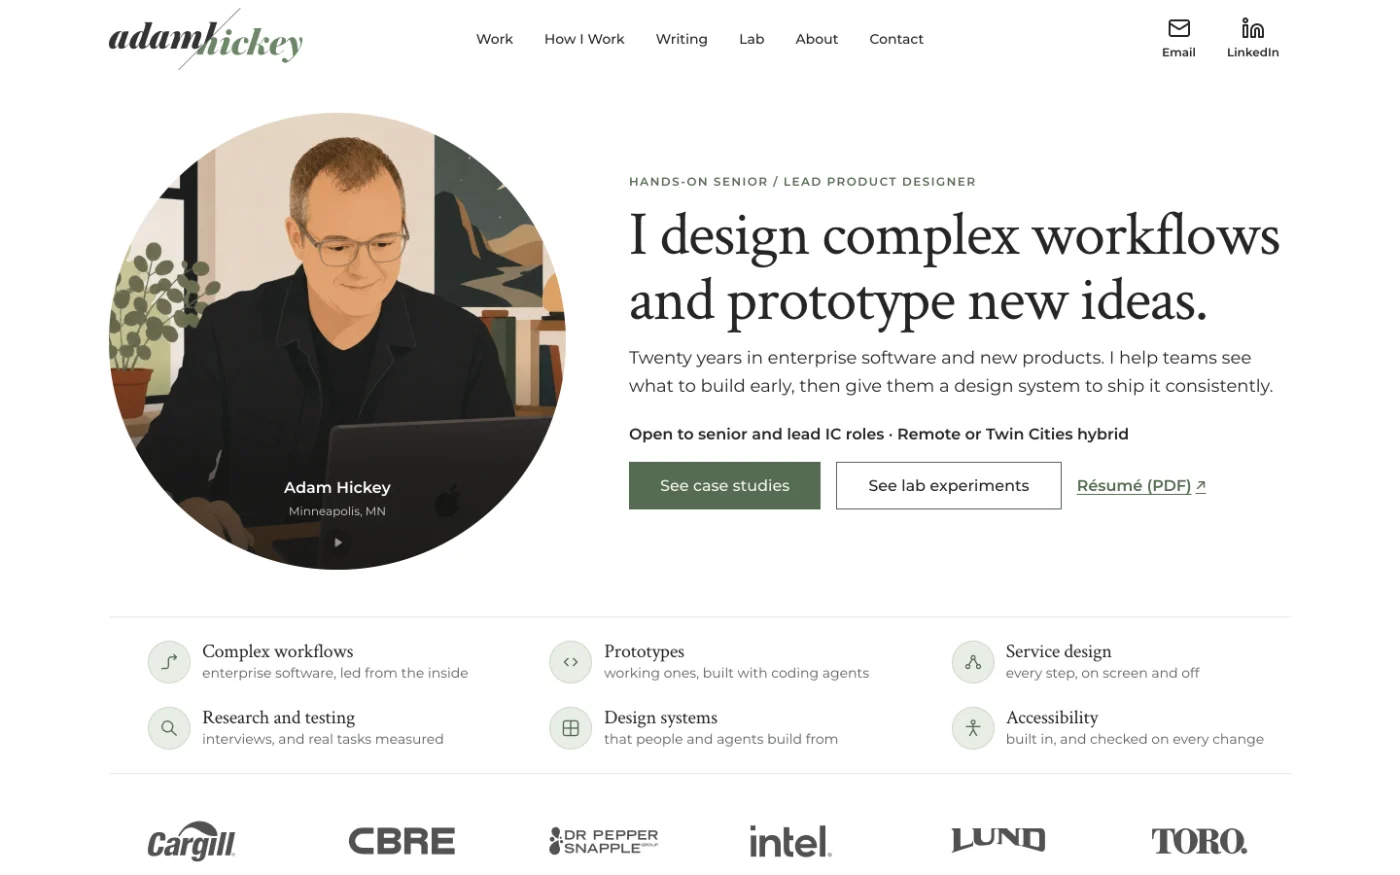
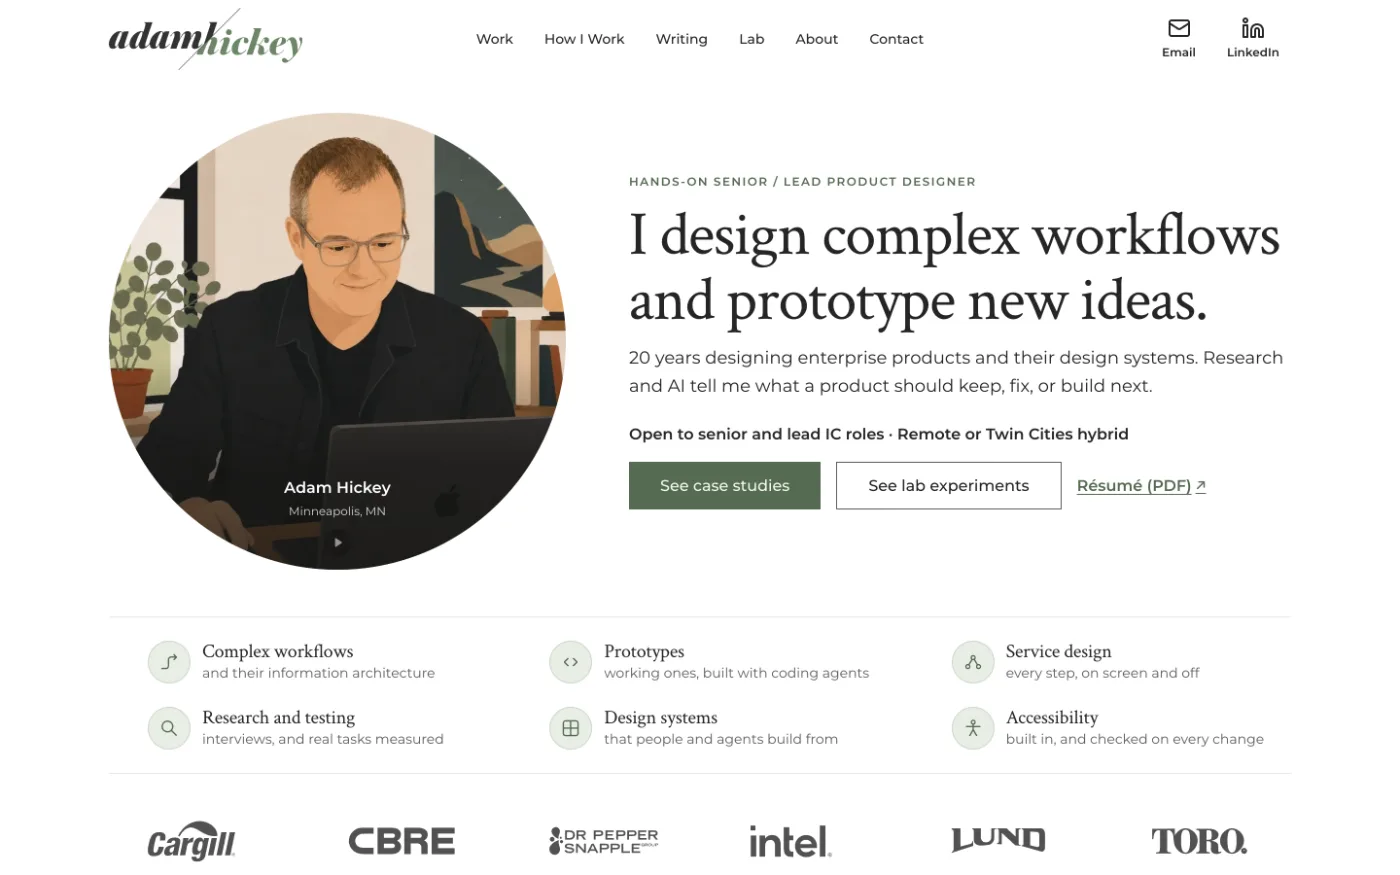
Survey answers: Dispatch note, STO's product owner, Door County Found's AI and photo fix, While We're Here's pictures; This site capture retaken
From Adam's answers on 2026-11-14:
- Dispatch: the Design psychology note gets its body.
- STO: the product owner kept Approve open.
- Door County Found: what AI did (brand board help, the generated flat-lay,
  coding agents wrote the code), and Elizabeth's phone photos, too big to
  upload until the form shrank them itself. The flat-lay's alt says it is
  generated.
- While We're Here: what the other 65 pictures are.
- This site: the homepage capture retaken at 1440 with today's hero, alt
  updated; the index and this-site share cards re-rendered from it.

Changed region(s): [[0.43, 0.4011, 0.9214, 0.4629], [0.1536, 0.7406, 0.3379, 0.7714]]

diff --git a/case-study/door-county-found.html b/case-study/door-county-found.html
@@ -272,7 +272,7 @@
              description, and it was never the caption's job. -->
         <figure class="build-shot">
           <img src="../img/dcf/campaign.webp?v=5" width="2172" height="724" fetchpriority="high" decoding="async"
-               alt="The Door County Found identity laid out flat: at left the Door County Found logo &mdash; a white lighthouse in a navy disc, gold beams spreading either side of it, the name in navy capitals above the word &ldquo;found&rdquo; underlined in rust script &mdash; then the headline &ldquo;Found slowly, shared honestly.&rdquo; and beneath it &ldquo;a digital guide to Door County, Wisconsin.&rdquo; At right a laptop stands open on the site&rsquo;s front page &mdash; &ldquo;Door County, the way we know it,&rdquo; a drawn map of the peninsula, and pinned polaroids of Sister Bay, Baileys Harbor, and Jacksonport. Around it on cream paper: a folded nautical chart of the shoreline, a Baileys Harbor lighthouse postcard, a leather motel keyfob stamped &ldquo;stay curious,&rdquo; a fifteen-cent cherry stamp, a strip of five cloth swatches in navy, gold, rust, teal, and green, and a handwritten note reading &ldquo;pack light, leave room for unexpected finds.&rdquo;" />
+               alt="A generated picture of the Door County Found identity laid out flat: at left the Door County Found logo &mdash; a white lighthouse in a navy disc, gold beams spreading either side of it, the name in navy capitals above the word &ldquo;found&rdquo; underlined in rust script &mdash; then the headline &ldquo;Found slowly, shared honestly.&rdquo; and beneath it &ldquo;a digital guide to Door County, Wisconsin.&rdquo; At right a laptop stands open on the site&rsquo;s front page &mdash; &ldquo;Door County, the way we know it,&rdquo; a drawn map of the peninsula, and pinned polaroids of Sister Bay, Baileys Harbor, and Jacksonport. Around it on cream paper: a folded nautical chart of the shoreline, a Baileys Harbor lighthouse postcard, a leather motel keyfob stamped &ldquo;stay curious,&rdquo; a fifteen-cent cherry stamp, a strip of five cloth swatches in navy, gold, rust, teal, and green, and a handwritten note reading &ldquo;pack light, leave room for unexpected finds.&rdquo;" />
         </figure>
 
         <div class="glance">
@@ -406,6 +406,7 @@
       <div class="container case-narrow">
         <h2 id="identity">An identity made by hand</h2>
         <p>My sister Elizabeth and I kept landing on vintage northern Wisconsin for the look: <strong>refined rather than rustic</strong>, nostalgic without going theme park, a little kitschy, and never cute.</p>
+        <p>AI helped me explore the brand board and generated the flat-lay at the top of this page. <strong>Coding agents wrote the code</strong> from my direction.</p>
         <p><strong>Words stay live.</strong> No headline, address, or button is ever baked into a picture.</p>
         <p>The palette has seven named colors, from Paper and Ink to a Brass kept for tiny details. I think <strong>the names did more than the hex values</strong>: &ldquo;Brass, tiny details only&rdquo; is a rule anyone can follow.</p>
 
@@ -430,6 +431,7 @@
         <h2 id="for-its-editor">Built for its editor, not its builder</h2>
         <p>A guide is only as good as its last update, and <strong>the person who keeps this one current is Elizabeth</strong>. She isn&rsquo;t a designer or a developer, and she shouldn&rsquo;t have to become either.</p>
         <p>She signs into a web form that asks the same questions every place answers, and hits save. <strong>The change is live about two minutes later</strong>, set in the identity, and she has no way to knock it off brand.</p>
+        <p>Her phone photos were the snag. They were too big to upload, and the instructions I sent didn&rsquo;t fix it. So <strong>the form now shrinks a photo itself</strong>, and any picture from her phone goes in.</p>
         <p>The visible work was the look. The design work was <strong>a system the right person can keep alive without me</strong>, whether that&rsquo;s my sister or a client&rsquo;s content team.</p>
       </div>
     </section>

diff --git a/case-study/this-site.html b/case-study/this-site.html
@@ -19,7 +19,7 @@
   <meta property="og:url" content="https://adamhickey.com/case-study/this-site.html" />
   <meta property="og:title" content="How I built this site | Adam Hickey" />
   <meta property="og:description" content="How adamhickey.com is built: twenty-eight pages of plain HTML with no framework and no build step, three token files under four normative specs, and twelve checks that measure the rendered page before anything ships." />
-  <meta property="og:image" content="https://adamhickey.com/img/og/this-site.jpg?v=16" />
+  <meta property="og:image" content="https://adamhickey.com/img/og/this-site.jpg?v=17" />
   <meta property="og:image:width" content="1200" />
   <meta property="og:image:height" content="630" />
   <meta name="twitter:card" content="summary_large_image" />
@@ -40,7 +40,7 @@
           "description": "A build write-up for adamhickey.com: twenty-eight pages of plain HTML with no framework and no build step, three token files under four normative specs, and twelve checks that measure the rendered page before anything ships.",
           "url": "https://adamhickey.com/case-study/this-site.html",
           "mainEntityOfPage": "https://adamhickey.com/case-study/this-site.html",
-          "image": "https://adamhickey.com/img/og/this-site.jpg?v=16",
+          "image": "https://adamhickey.com/img/og/this-site.jpg?v=17",
           "datePublished": "2026-09-17",
           "dateModified": "2026-11-14",
           "author": {
@@ -237,8 +237,8 @@
              sits one click away would be the one dishonest picture here. -->
         <figure class="build-shot">
           <div class="build-laptop"><div class="build-laptop-lid">
-              <img src="../img/site/this-site.webp?v=19" width="1400" height="875" fetchpriority="high" decoding="async"
-                   alt="The homepage of this site at laptop width: the wordmark and six section links across the top, the portrait in a circle on the left, and on the right the eyebrow Hands-on Senior / Lead Product Designer over the title &ldquo;I design complex workflows and prototype new ideas.&rdquo;, a two-line dek beginning &ldquo;Twenty years in enterprise software and new products,&rdquo; a line saying &ldquo;Open to senior and lead IC roles &middot; Remote or Twin Cities hybrid,&rdquo; a green See case studies button, an outlined See lab experiments button, and a R&eacute;sum&eacute; (PDF) link. Under them, six capabilities in two rows of three, each with a small line icon in a pale disc, and a row of six client wordmarks along the bottom." />
+              <img src="../img/site/this-site.webp?v=20" width="1400" height="875" fetchpriority="high" decoding="async"
+                   alt="The homepage of this site at laptop width: the wordmark and six section links across the top, the portrait in a circle on the left, and on the right the eyebrow Hands-on Senior / Lead Product Designer over the title &ldquo;I design complex workflows and prototype new ideas.&rdquo;, a two-line dek beginning &ldquo;20 years designing enterprise products and their design systems,&rdquo; a line saying &ldquo;Open to senior and lead IC roles &middot; Remote or Twin Cities hybrid,&rdquo; a green See case studies button, an outlined See lab experiments button, and a R&eacute;sum&eacute; (PDF) link. Under them, six capabilities in two rows of three, each with a small line icon in a pale disc, and a row of six client wordmarks along the bottom." />
             </div></div>
         </figure>
 

diff --git a/index.html b/index.html
@@ -30,7 +30,7 @@
        "How a change reaches the live site". -->
   <link rel="canonical" href="https://adamhickey.com/" />
   <meta property="og:url" content="https://adamhickey.com/" />
-  <meta property="og:image" content="https://adamhickey.com/img/og/index.jpg?v=16" />
+  <meta property="og:image" content="https://adamhickey.com/img/og/index.jpg?v=17" />
   <meta property="og:image:width" content="1200" />
   <meta property="og:image:height" content="630" />
   <meta name="twitter:card" content="summary_large_image" />
@@ -51,7 +51,7 @@
           "jobTitle": "Senior Product Designer",
           "description": "Senior product designer for complex enterprise software, design systems, and agentic workflows, who builds what he designs, in Minneapolis.",
           "url": "https://adamhickey.com/",
-          "image": "https://adamhickey.com/img/og/index.jpg?v=16",
+          "image": "https://adamhickey.com/img/og/index.jpg?v=17",
           "email": "mailto:adam@adamhickey.com",
           "address": {
             "@type": "PostalAddress",
@@ -87,7 +87,7 @@
           "name": "Adam Hickey — Product Design",
           "description": "Adam Hickey's independent product design practice in Minneapolis, for complex enterprise software: design systems, modernizing legacy products, and AI product prototypes. Twenty years inside enterprise platforms, design systems, and products that outgrew their original shape.",
           "url": "https://adamhickey.com/",
-          "image": "https://adamhickey.com/img/og/index.jpg?v=16",
+          "image": "https://adamhickey.com/img/og/index.jpg?v=17",
           "founder": {
             "@id": "https://adamhickey.com/#adam"
           },

diff --git a/case-study/dispatch-complexity.html b/case-study/dispatch-complexity.html
@@ -286,6 +286,7 @@
         <div class="cc-figure"><img src="../img/site/card-detail-2.webp" alt="Card detail view" class="cc-img cc-img--flat" style="filter: brightness(1.05) saturate(0.8);" width="1800" height="1012" loading="lazy" decoding="async"></div><ul class="cc-list cc-list--base"><li>The driver card stacks live location, status, and how full the truck is</li><li>The order card fits addresses and time windows into one tile</li><li>Small icons replace wordy labels, so more fits and still reads</li></ul></div>
         <aside class="dp-note" aria-labelledby="dp-cards-label"><p class="dp-note-label" id="dp-cards-label"><svg class="dp-note-icon" xmlns="http://www.w3.org/2000/svg" viewBox="0 0 24 24" aria-hidden="true" focusable="false"><path d="M2.062 12.348a1 1 0 0 1 0-.696 10.75 10.75 0 0 1 19.876 0 1 1 0 0 1 0 .696 10.75 10.75 0 0 1-19.876 0"></path><circle cx="12" cy="12" r="3"></circle></svg>Design psychology</p>
         <h3 class="dp-note-head">A simpler screen is not always a clearer one.</h3>
+        <p class="dp-note-body">The map looked simpler. Dispatchers thought in drivers and loads, not streets, so the cards matched how they already worked.</p>
         <p class="dp-note-source">On mental models: <a href="https://www.nngroup.com/articles/mental-models/" target="_blank" rel="noopener noreferrer">NN/g, Mental Models</a></p>
         </aside>
         <h3 class="cc-step"><span class="cc-step-n" aria-hidden="true">3</span>Left screen: active drivers</h3>

diff --git a/case-study/agentic-sto-approval.html b/case-study/agentic-sto-approval.html
@@ -278,7 +278,7 @@
           <img src="../img/sto/legend.webp?v=3" width="2296" height="790" loading="lazy" decoding="async"
                alt="How flags work: High confidence and Low confidence under Confidence, Validation failed under Validation, which blocks approve, and Merged under Modifier." />
         </figure>
-        <p>I wasn&rsquo;t sure about leaving low confidence ungated, and a hard stop would have been simpler to build. The requirements kept Approve open: <strong>the confirm step counts the lines still flagged</strong>, so going ahead is a decision.</p>
+        <p>I wasn&rsquo;t sure about leaving low confidence ungated, and a hard stop would have been simpler to build. The product owner kept Approve open: <strong>the confirm step counts the lines still flagged</strong>, so going ahead is a decision.</p>
         <figure class="build-shot build-shot--scale" style="--shot-w: 1040">
           <img src="../img/sto/approve.webp?v=2" width="1040" height="697" loading="lazy" decoding="async"
                alt="The Approve STO dialog: it says approving creates the STO in SAP and emails the sender, summarizes the sender, 42 line items, and the route, and notes that 3 lines need review." />

diff --git a/case-study/while-were-here.html b/case-study/while-were-here.html
@@ -425,7 +425,7 @@
         <h2 id="what-ai-did">What AI actually did</h2>
         <p>The essays started as talk on lake walks, with an AI that asked questions back. The talk came home <strong>too long, too loose, and not yet about anything</strong>.</p>
         <p>I decided which threads were worth pursuing, cut the rest, and <strong>shaped what survived into essays that argue something</strong>.</p>
-        <p>The pictures are more clear-cut. Of the 174, <strong>95 are photographs I took. Fourteen are generated</strong>, and the credits page says so for each one.</p>
+        <p>The pictures are more clear-cut. Of the 174, <strong>95 are photographs I took. Fourteen are generated</strong>, and the credits page says so for each one. The rest are family photographs, public-domain archival images, and my own drawings and scans.</p>
         <p>I wouldn&rsquo;t call any of this a new way of writing. People have composed on walks for as long as they&rsquo;ve walked. <strong>This time the walk answered back</strong>, and came home as a draft.</p>
       </div>
     </section>
